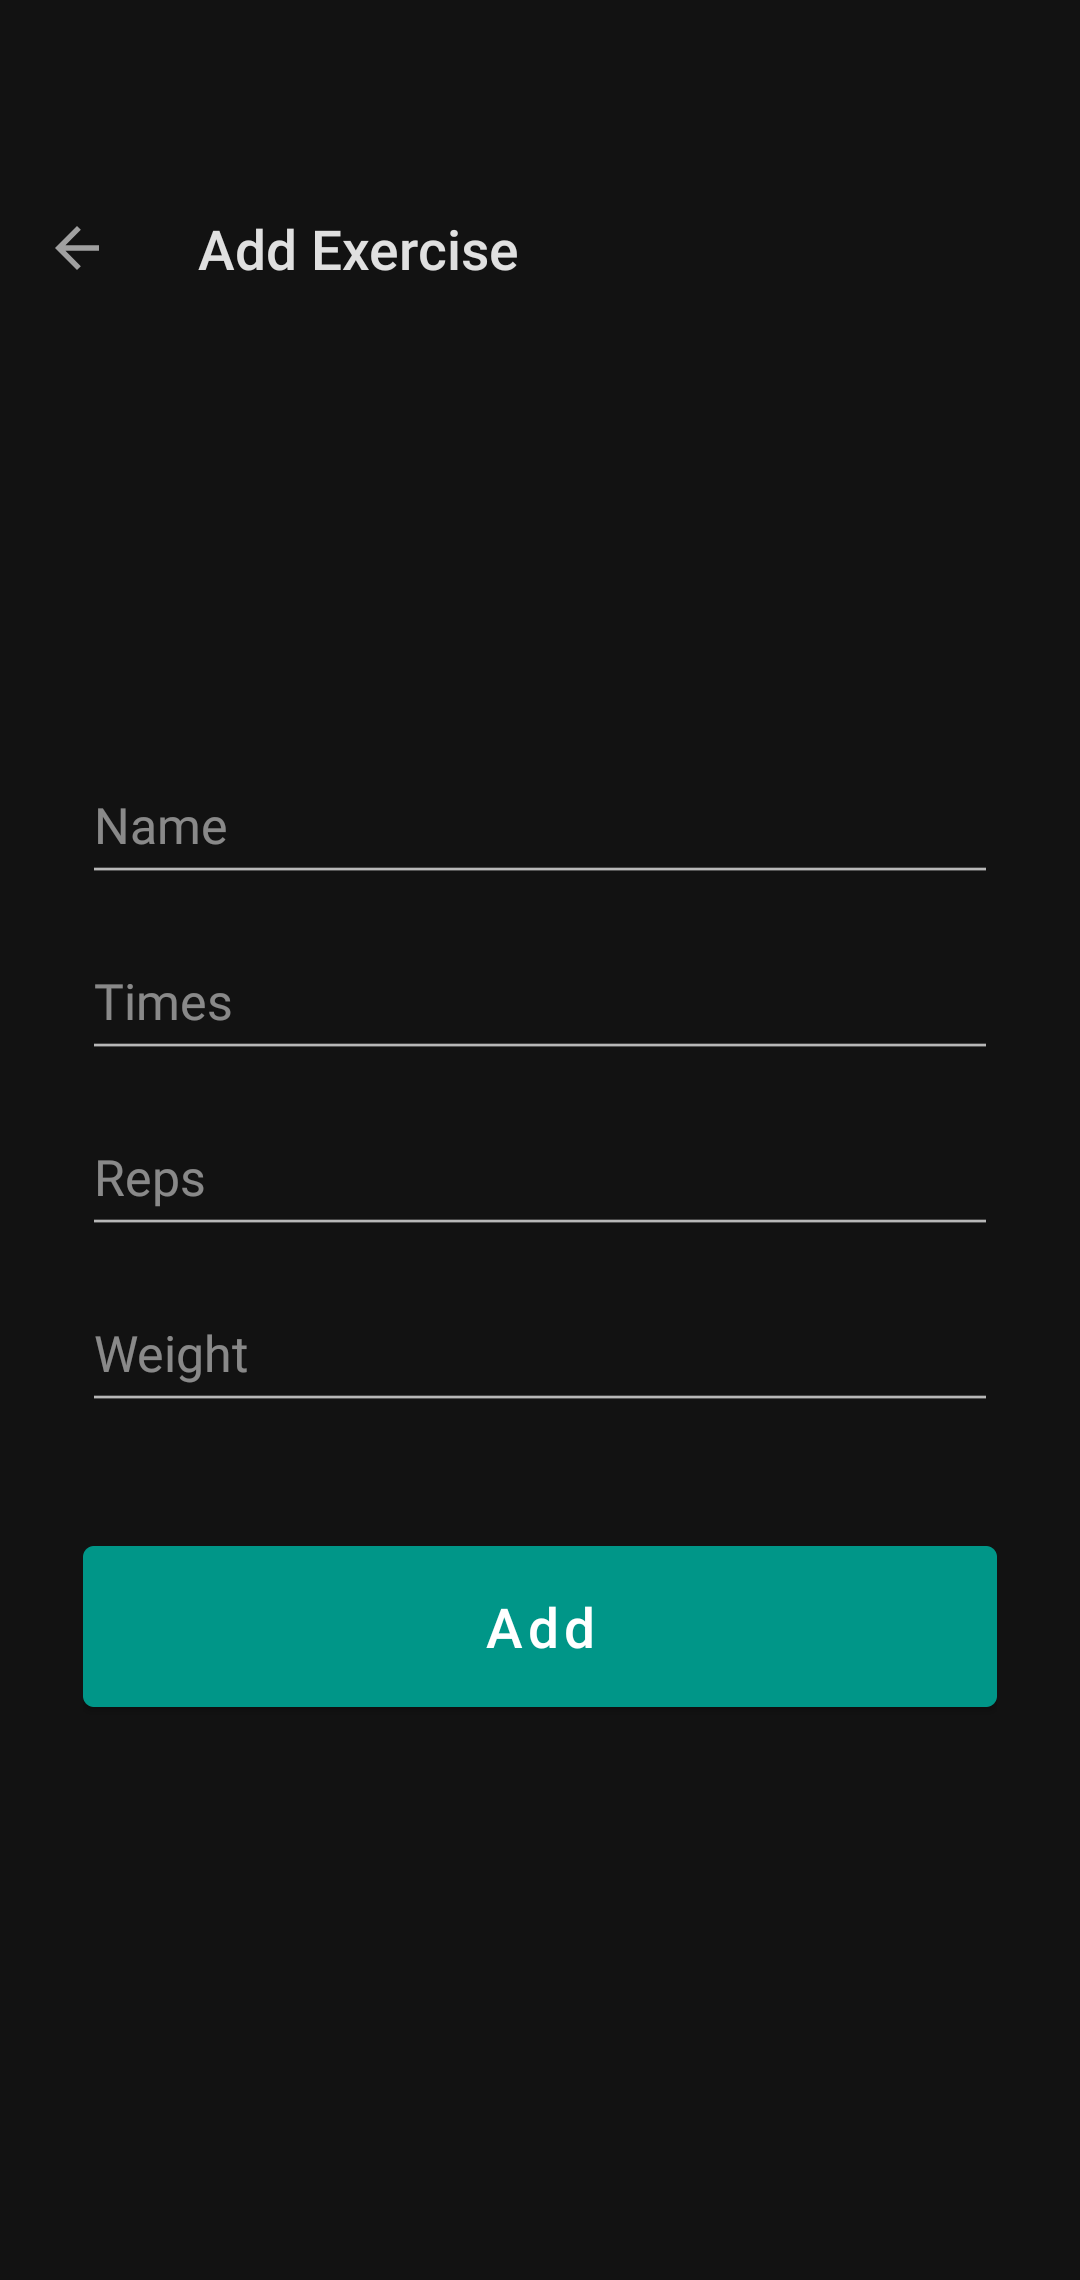
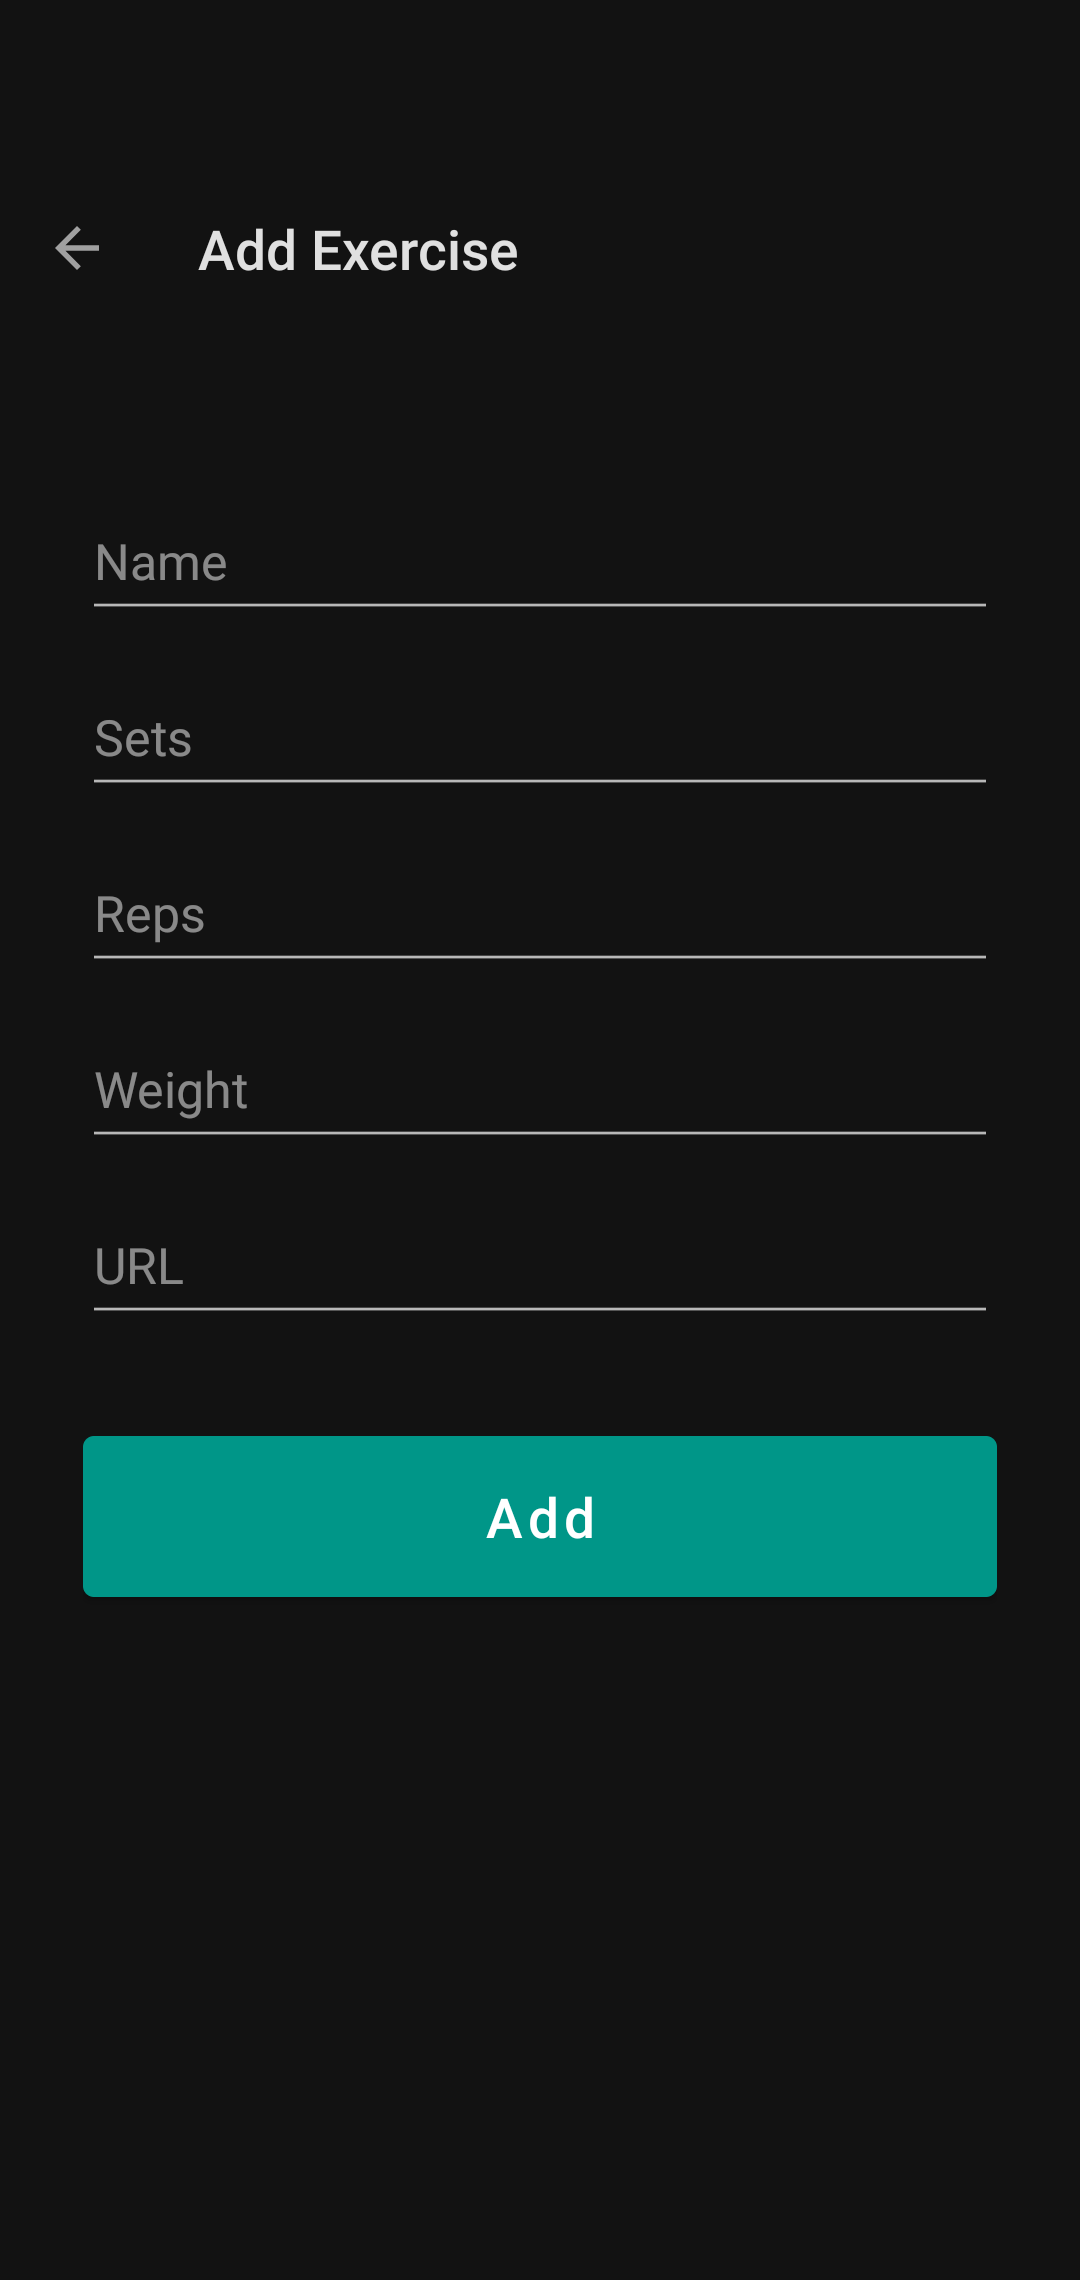
README.md changes

Changed region(s): [[0.0611, 0.3114, 0.9472, 0.7474], [0.0917, 0.218, 0.2139, 0.2803]]

diff --git a/README.md b/README.md
@@ -4,9 +4,11 @@ A simple App to track your progress in gym!
 
 <img src="app/for_git/main.png" alt="app picture" style="width:200px;"/>
 
-Add and update new excercises to your list and data will be stored automaticly
+Add and update new exercises to your list and data will be stored automatically
 
 <img src="app/for_git/add.png" alt="add picture" style="width:200px;"/>
+
+Save useful videos and watch them later to remind yourself of technique
 
 <img src="app/for_git/update_delete.png" alt="update delete picture" style="width:200px;"/>
 
